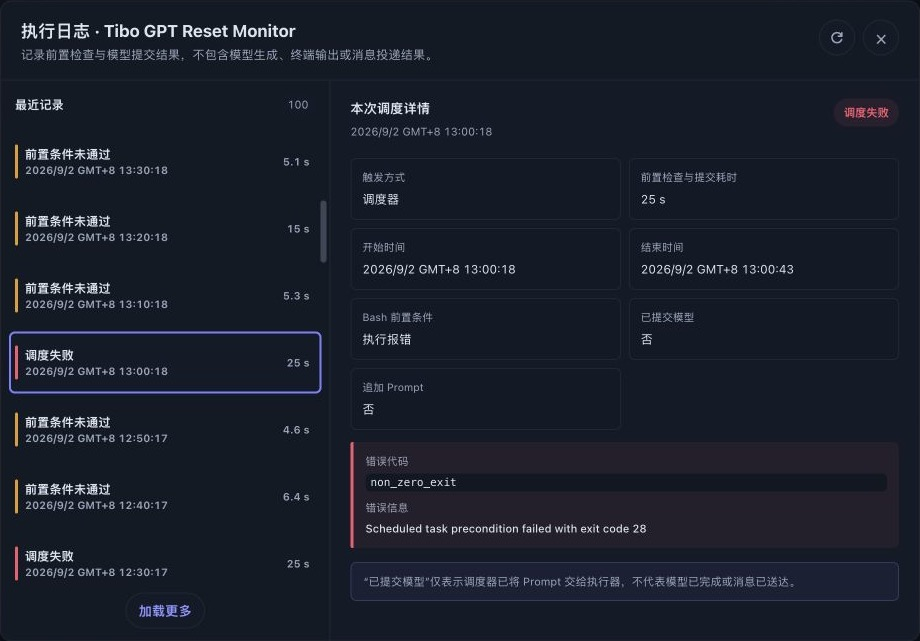
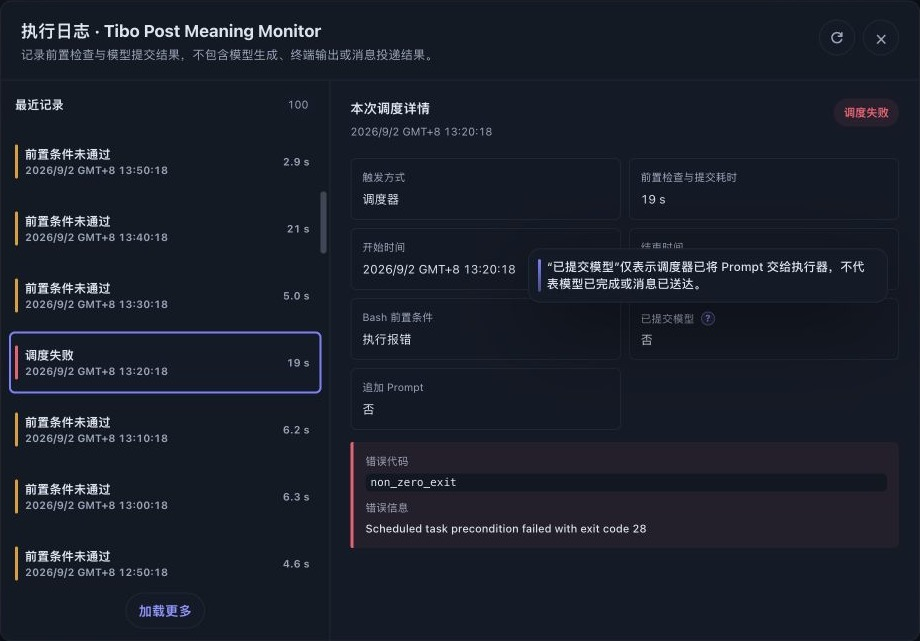
fix(dashboard): 将模型提交说明移入悬浮提示

diff --git a/test/dashboard-schedules-ui.test.ts b/test/dashboard-schedules-ui.test.ts
@@ -540,7 +540,8 @@ describe('dashboard schedules React page helpers', () => {
     expect(page).not.toContain('setInterval(');
   });
 
-  it('states the scheduler-log boundary and keeps the dialog usable on small screens', () => {
+  it('moves the scheduler-log boundary behind an accessible model-submission tooltip', () => {
+    const page = readFileSync(new URL('../src/dashboard/web/schedules-page.tsx', import.meta.url), 'utf8');
     const css = readFileSync(new URL('../src/dashboard/web/style.css', import.meta.url), 'utf8');
     const zh = createDashboardTranslator('zh');
     const en = createDashboardTranslator('en');
@@ -552,6 +553,16 @@ describe('dashboard schedules React page helpers', () => {
     expect(zh('schedules.logs.boundary')).toContain('不代表模型已完成');
     expect(zh('schedules.logs.emptyHint')).toContain('仅展示升级后产生的记录');
     expect(en('schedules.logs.boundary')).toContain('does not mean the model finished');
+    expect(page).toMatch(
+      /<dt>\s*<FieldTitle\s+help=\{tr\('schedules\.logs\.boundary'\)\}\s+helpLabel=\{tr\('schedules\.logs\.boundary'\)\}\s*>\s*\{tr\('schedules\.logs\.modelInvocation'\)\}\s*<\/FieldTitle>\s*<\/dt>/,
+    );
+    expect(page).not.toContain('className="schedule-run-log-boundary"');
+    expect(css).not.toContain('.schedule-run-log-boundary');
+  });
+
+  it('keeps the run-log dialog usable on small screens', () => {
+    const css = readFileSync(new URL('../src/dashboard/web/style.css', import.meta.url), 'utf8');
+
     expect(css).toMatch(/\.schedule-run-log-workspace \{[\s\S]*?grid-template-columns:/);
     expect(css).toMatch(/@media \(max-width: 720px\) \{[\s\S]*?\.schedule-run-log-workspace \{[\s\S]*?grid-template-columns:\s*1fr/);
     expect(css).toMatch(/\.schedule-run-log-list-panel \{[\s\S]*?min-height:\s*0/);

diff --git a/src/dashboard/web/schedules-page.tsx b/src/dashboard/web/schedules-page.tsx
@@ -5,6 +5,7 @@ import { useStoreSelector, useT } from './react-hooks.js';
 import {
   CreateActionButton,
   DropdownMenu,
+  FieldTitle,
   LoadingState,
   OverviewList,
   OverviewListItem,
@@ -743,7 +744,14 @@ function ScheduleRunLogDialog(props: {
                         <dd>{preconditionLabel(selected.precondition)}</dd>
                       </div>
                       <div>
-                        <dt>{tr('schedules.logs.modelInvocation')}</dt>
+                        <dt>
+                          <FieldTitle
+                            help={tr('schedules.logs.boundary')}
+                            helpLabel={tr('schedules.logs.boundary')}
+                          >
+                            {tr('schedules.logs.modelInvocation')}
+                          </FieldTitle>
+                        </dt>
                         <dd>{selected.outcome === 'model_dispatched'
                           ? tr('schedules.logs.yes')
                           : tr('schedules.logs.no')}</dd>
@@ -765,9 +773,6 @@ function ScheduleRunLogDialog(props: {
                         ) : null}
                       </div>
                     ) : null}
-                    <p className="schedule-run-log-boundary" role="note">
-                      {tr('schedules.logs.boundary')}
-                    </p>
                   </>
                 ) : null}
               </section>

diff --git a/src/dashboard/web/style.css b/src/dashboard/web/style.css
@@ -28156,17 +28156,6 @@ button.schedule-run-log-row:focus-visible {
   font-weight: 500;
 }
 
-.schedule-run-log-boundary {
-  margin: 14px 0 0;
-  padding: 10px 12px;
-  border: 1px solid color-mix(in srgb, var(--accent) 22%, var(--border-soft));
-  border-radius: var(--radius-sm);
-  background: color-mix(in srgb, var(--accent) 6%, var(--surface));
-  color: var(--muted);
-  font-size: 11px;
-  line-height: 1.55;
-}
-
 @media (max-width: 720px) {
   .schedule-run-log-dialog {
     width: calc(100vw - 16px);
